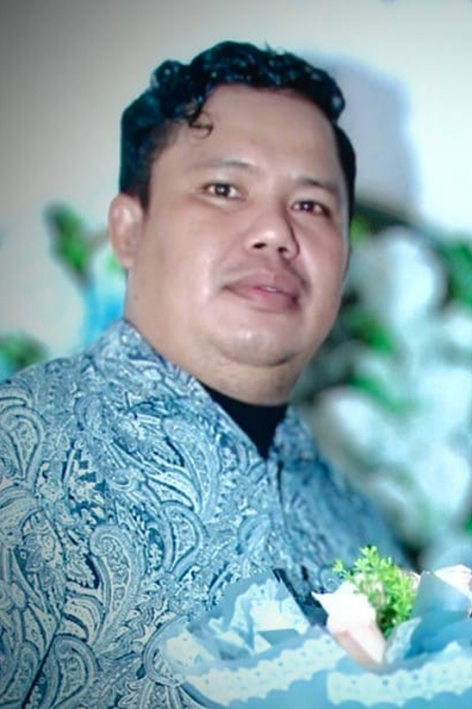
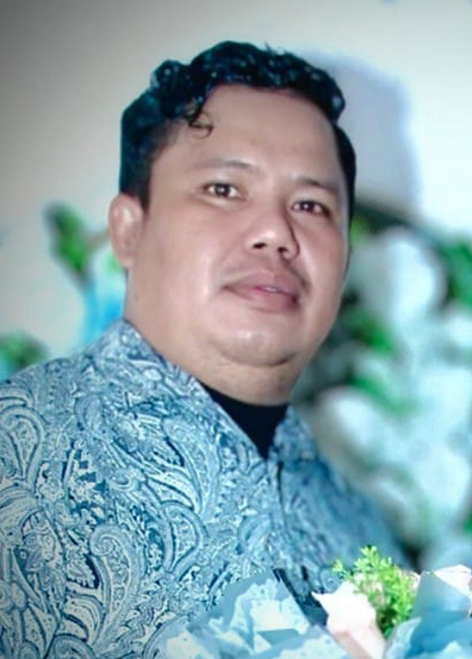
ubah nama

diff --git a/resources/views/undangan/asril&muhria/_acara2.blade.php b/resources/views/undangan/asril&muhria/_acara2.blade.php
@@ -85,11 +85,11 @@
 <script src="https://unpkg.com/leaflet-routing-machine@latest/dist/leaflet-routing-machine.js"></script>
 
 <script>
-    const map = L.map('map').setView([-4.630957664511141, 119.58185664371408], 16);
+    const map = L.map('map_2').setView([-4.407984194975246, 119.60546372883208], 16);
     L.tileLayer('https://{s}.tile.openstreetmap.org/{z}/{x}/{y}.png', {
         attribution: '&copy; OpenStreetMap'
     }).addTo(map);
 
-    const eventLocation = L.latLng(-4.630957664511141, 119.58185664371408);
+    const eventLocation = L.latLng(-4.407984194975246, 119.60546372883208);
     L.marker(eventLocation).addTo(map).bindPopup('Lokasi Resepsi').openPopup();
 </script>

diff --git a/resources/views/undangan/asril&muhria/_countdown.blade.php b/resources/views/undangan/asril&muhria/_countdown.blade.php
@@ -10,7 +10,7 @@
     <!-- Gambar -->
     <div class="flex justify-center mb-6"
          data-aos="zoom-in" data-aos-delay="400">
-        <img src="{{ asset('assets/asril3.jpg') }}" alt="Count_Down"
+        <img src="{{ asset('assets/asril1.jpg') }}" alt="Count_Down"
              class="w-32 h-32 md:w-40 md:h-40 bg-white rounded-full shadow-lg ring-4 ring-white object-cover" />
     </div>
 
